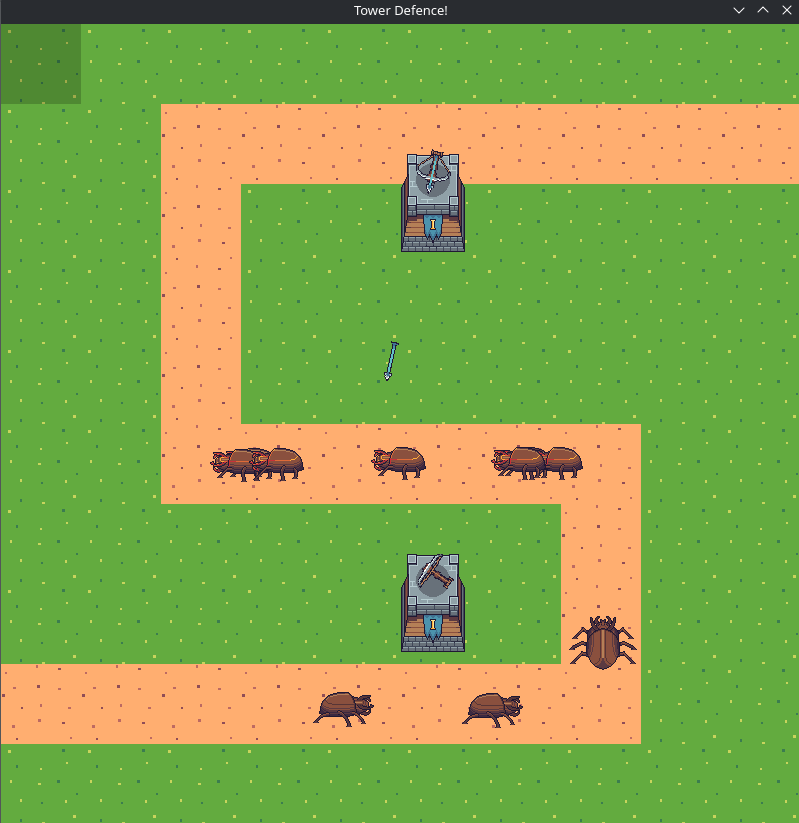
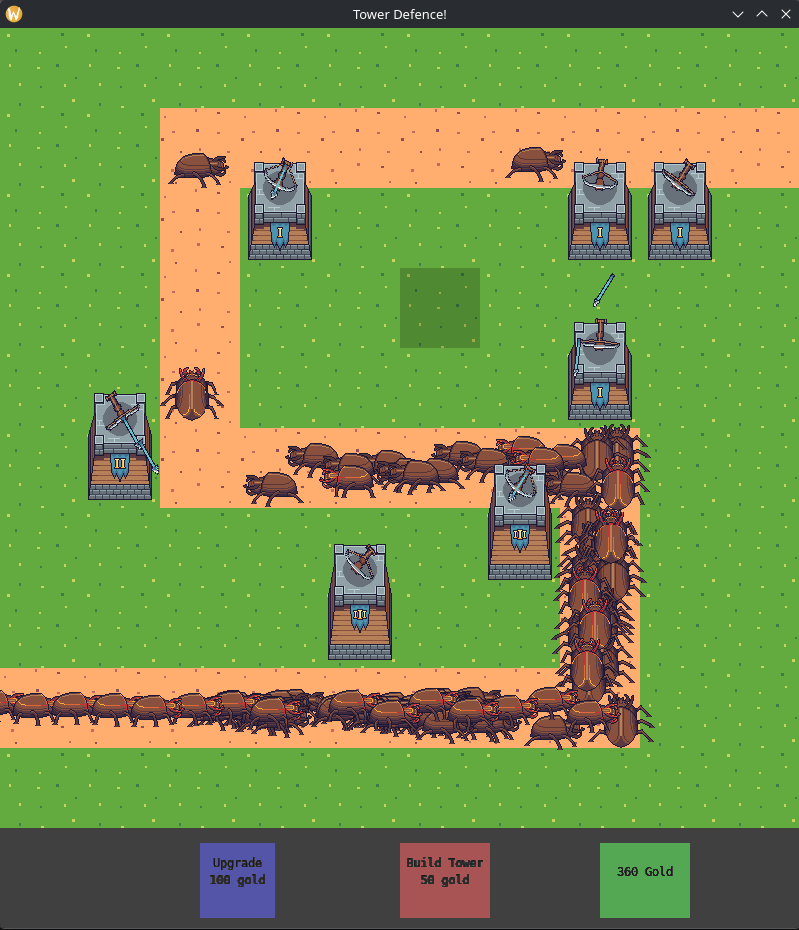
Add spawning system

diff --git a/src/systems/PathfindingSystem.cpp b/src/systems/PathfindingSystem.cpp
@@ -1,5 +1,7 @@
 #include "PathfindingSystem.h"
 
+#include <random>
+
 #include "../components/FlagComponent.h"
 #include "../components/PathfindingComponent.h"
 #include "../components/PositionComponent.h"
@@ -27,8 +29,8 @@ void PathfindingSystem::update(float) {
                     // Get the center positions of the entity and the target tile
                     float entityCenterX = position->x + size->w / 2.0f;
                     float entityCenterY = position->y + size->h / 2.0f;
-                    float targetCenterX = TARGET_TILE->x + TARGET_SIZE->w / 2.0f;
-                    float targetCenterY = TARGET_TILE->y + TARGET_SIZE->h / 2.0f;
+                    float targetCenterX = TARGET_TILE->x + TARGET_SIZE->w / 2.0f + pathfinding->randomOffset.x;
+                    float targetCenterY = TARGET_TILE->y + TARGET_SIZE->h / 2.0f + pathfinding->randomOffset.y;
 
                     // Calculate direction to the target
                     float dx = targetCenterX - entityCenterX;
@@ -41,12 +43,18 @@ void PathfindingSystem::update(float) {
                         velocity->x = dx * speed->speed;
                         velocity->y = dy * speed->speed;
                     } else {
-                        if (pathTiles[pathfinding->currentIndex] == end) {
+                        pathfinding->currentIndex++;
+
+                        if (pathfinding->currentIndex >= static_cast<int>(pathTiles.size())) {
                             componentManager.removeComponent<PathfindingComponent>(entity);
                             velocity->x = 0;
                             velocity->y = 0;
+                        } else {
+                            auto* nextTileSize = componentManager.getComponent<SizeComponent>(pathTiles[pathfinding->currentIndex]);
+                            if (nextTileSize) {
+                                generateRandomOffset(pathfinding, nextTileSize);
+                            }
                         }
-                        pathfinding->currentIndex++;
                     }
                 }
             }
@@ -81,4 +89,18 @@ void PathfindingSystem::generatePath() {
 
         pathTiles.push_back(matchingTile);
     }
+}
+
+void PathfindingSystem::generateRandomOffset(PathfindingComponent* pathfinding, SizeComponent* targetSize) {
+    static std::random_device rd;
+    static std::mt19937 gen(rd());
+
+    float maxOffsetX = targetSize->w * 0.25f;
+    float maxOffsetY = targetSize->h * 0.25f;
+
+    std::uniform_real_distribution<float> distX(-maxOffsetX, maxOffsetX);
+    std::uniform_real_distribution<float> distY(-maxOffsetY, maxOffsetY);
+
+    pathfinding->randomOffset.x = distX(gen);
+    pathfinding->randomOffset.y = distY(gen);
 }

diff --git a/src/main.cpp b/src/main.cpp
@@ -3,7 +3,6 @@
 #include <GLFW/glfw3.h>
 // clang-format on
 
-#include <ctime>
 #include <glm/fwd.hpp>
 #include <glm/glm.hpp>
 #include <iostream>
@@ -24,6 +23,7 @@
 #include "systems/PathfindingSystem.h"
 #include "systems/RenderSystem.h"
 #include "systems/ShootingSystem.h"
+#include "systems/SpawningSystem.h"
 #include "systems/StateSystem.h"
 #include "texture/TextureManager.h"
 #include "utils/Globals.h"
@@ -90,6 +90,7 @@ int main() {
     auto& stateSystem = systemManager.registerSystem<StateSystem>(&entityManager, componentManager);
     auto& clickSystem = systemManager.registerSystem<ClickSystem>(&entityManager, componentManager);
     auto& buildSystem = systemManager.registerSystem<BuildSystem>(&entityManager, componentManager, entityFactory, currencyDisplay);
+    auto& spawningSystem = systemManager.registerSystem<SpawningSystem>(&entityManager, componentManager, entityFactory, pathfindingSystem);
 
     glfwSetWindowUserPointer(window, &clickSystem);
     glfwSetMouseButtonCallback(window, [](GLFWwindow* window, int button, int action, int) {
@@ -106,14 +107,6 @@ int main() {
 
     entityFactory.createUpgradeMenuItem(glm::vec2(SCREEN_WIDTH, SCREEN_HEIGHT));
     entityFactory.createBuildTowerMenuItem(glm::vec2(SCREEN_WIDTH, SCREEN_HEIGHT));
-
-    std::srand(static_cast<unsigned int>(std::time(nullptr)));
-
-    for (int i = 0; i < 10; ++i) {
-        float x = static_cast<float>(std::rand() % SCREEN_WIDTH);
-        float y = static_cast<float>(std::rand() % SCREEN_HEIGHT);
-        entityFactory.createFireBug(glm::vec2(x, y));
-    }
 
     pathfindingSystem.generatePath();
 

diff --git a/src/systems/SpawningSystem.cpp b/src/systems/SpawningSystem.cpp
@@ -1,0 +1,36 @@
+#include "SpawningSystem.h"
+
+#include "../components/DeathComponent.h"
+#include "../components/PositionComponent.h"
+#include "../components/SizeComponent.h"
+
+void SpawningSystem::update(float deltaTime) {
+    spawnTimer += deltaTime;
+
+    if (spawnTimer >= spawnInterval) {
+        Entity& start = pathfindingSystem.getStart();
+        auto* position = componentManager.getComponent<PositionComponent>(start);
+        auto* size = componentManager.getComponent<SizeComponent>(start);
+
+        if (position && size) {
+            Entity enemy = entityFactory.createFireBug({position->x - size->w * 2, position->y});
+        }
+
+        spawnTimer -= spawnInterval;
+
+        spawnInterval *= 0.98f;
+        if (spawnInterval < MIN_SPAWN_INTERVAL) spawnInterval = MIN_SPAWN_INTERVAL;
+    }
+
+    for (Entity entity : getEntities()) {
+        auto* death = componentManager.getComponent<DeathComponent>(entity);
+        if (death && death->hasDied) {
+            if (death->remainingTime > 0) {
+                death->remainingTime -= deltaTime;
+            } else {
+                componentManager.removeAllComponents(entity);
+                entityManager->destroyEntity(entity);
+            }
+        }
+    }
+}

diff --git a/src/systems/CombatSystem.cpp b/src/systems/CombatSystem.cpp
@@ -1,6 +1,7 @@
 #include "CombatSystem.h"
 
 #include "../components/DamageComponent.h"
+#include "../components/DeathComponent.h"
 #include "../components/HealthComponent.h"
 #include "../components/PathfindingComponent.h"
 #include "../components/TextureComponent.h"
@@ -16,6 +17,7 @@ void CombatSystem::onEvent(const Event& event) {
 
         int projectileDamage = componentManager.getComponent<DamageComponent>(projectile)->damage;
         auto* targetHealth = componentManager.getComponent<HealthComponent>(target);
+        auto* targetDeath = componentManager.getComponent<DeathComponent>(target);
 
         if (targetHealth) {
             targetHealth->health -= projectileDamage;
@@ -30,6 +32,9 @@ void CombatSystem::onEvent(const Event& event) {
                 componentManager.removeComponent<PathfindingComponent>(target);
                 componentManager.removeComponent<HealthComponent>(target);
                 componentManager.getComponent<TextureComponent>(target)->zIndex = ZLayer::DEAD;
+                if (targetDeath) {
+                    targetDeath->hasDied = true;
+                }
             }
         }
 

diff --git a/src/ecs/EntityFactory.cpp b/src/ecs/EntityFactory.cpp
@@ -6,6 +6,7 @@
 #include "../components/CollisionComponent.h"
 #include "../components/ColorComponent.h"
 #include "../components/DamageComponent.h"
+#include "../components/DeathComponent.h"
 #include "../components/DirectionComponent.h"
 #include "../components/FlagComponent.h"
 #include "../components/HealthComponent.h"
@@ -106,6 +107,10 @@ Entity EntityFactory::createFireBug(glm::vec2 position) {
     HealthComponent healthComponent;
     healthComponent.health = 100;
     componentManager.addComponent(entity, healthComponent);
+
+    DeathComponent deathComponent;
+    deathComponent.remainingTime = 30.0f;
+    componentManager.addComponent(entity, deathComponent);
 
     RewardComponent rewardComponent;
     rewardComponent.gold = 15;

diff --git a/src/systems/SpawningSystem.h b/src/systems/SpawningSystem.h
@@ -1,0 +1,21 @@
+#pragma once
+#include "../ecs/System.h"
+#include "../ecs/ComponentManager.h"
+#include "../ecs/EntityFactory.h"
+#include "PathfindingSystem.h"
+
+class SpawningSystem : public System {
+public:
+    SpawningSystem(ComponentManager& componentManager, EntityFactory& entityFactory, PathfindingSystem& pathfindingSystem)
+        : componentManager(componentManager), entityFactory(entityFactory), pathfindingSystem(pathfindingSystem) {}
+
+    void update(float deltaTime) override;
+private:
+    ComponentManager& componentManager;
+    EntityFactory& entityFactory;
+    PathfindingSystem& pathfindingSystem;
+
+    float spawnTimer = 0.0f;
+    float spawnInterval = 2.0f;
+    const float MIN_SPAWN_INTERVAL = 0.35f;
+};

diff --git a/src/systems/RenderSystem.cpp b/src/systems/RenderSystem.cpp
@@ -226,9 +226,8 @@ void RenderSystem::render() {
         auto* textureA = this->componentManager.getComponent<TextureComponent>(a);
         auto* textureB = this->componentManager.getComponent<TextureComponent>(b);
 
-        
         if (textureA && textureB) {
-            if(textureA->zIndex == textureB->zIndex) {
+            if (textureA->zIndex == textureB->zIndex) {
                 auto* positionA = this->componentManager.getComponent<PositionComponent>(a);
                 auto* positionB = this->componentManager.getComponent<PositionComponent>(b);
 

diff --git a/src/systems/PathfindingSystem.h b/src/systems/PathfindingSystem.h
@@ -7,6 +7,8 @@
 #include "../ecs/ComponentManager.h"
 #include "../ecs/System.h"
 #include "../map/MapLoader.h"
+#include "../components/PathfindingComponent.h"
+#include "../components/SizeComponent.h"
 
 class PathfindingSystem : public System {
 public:
@@ -15,7 +17,11 @@ public:
     void update(float deltaTime) override;
     void generatePath();
 
+    Entity& getStart() {return start;}
+
 private:
+    void generateRandomOffset(PathfindingComponent* pathfinding, SizeComponent* targetSize);
+
     std::vector<Entity> pathTiles;
 
     Entity start;

diff --git a/src/utils/TextureCoords.h b/src/utils/TextureCoords.h
@@ -2,7 +2,6 @@
 
 #include <glm/glm.hpp>
 
-// TODO: this is wrong but it works
 static glm::vec4 getTextureCoords(int x, int y, int width, int height, int , int textureHeight) {
     int textureTopY = textureHeight - height;
     return glm::vec4(x * width, textureTopY - (height * y), width, height);

diff --git a/src/components/PathfindingComponent.h b/src/components/PathfindingComponent.h
@@ -1,10 +1,14 @@
 #pragma once
 
 #include "../ecs/Component.h"
+#include <glad/glad.h>
+#include <glm/glm.hpp>
 
 struct PathfindingComponent : public Component {
     float x;
     float y;
 
     int currentIndex = 0;
+
+    glm::vec2 randomOffset = {0.0f, 0.0f};
 };

diff --git a/src/components/DeathComponent.h b/src/components/DeathComponent.h
@@ -1,0 +1,8 @@
+#pragma once
+
+#include "../ecs/Component.h"
+
+struct DeathComponent : public Component {
+    float remainingTime; 
+    bool hasDied = false;
+};

diff --git a/src/systems/BuildSystem.h b/src/systems/BuildSystem.h
@@ -25,5 +25,5 @@ private:
 
     Entity& currencyDisplayEntity;
 
-    int currency = 200;
+    int currency = 100;
 };
